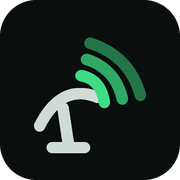
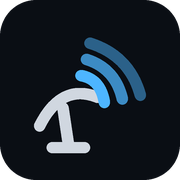
feat: New visuals

Changed region(s): [[0.4167, 0.1944, 0.8333, 0.6111]]

diff --git a/frontend/src/App.css b/frontend/src/App.css
@@ -1,17 +1,25 @@
 :root {
-  /* Signal palette: dark, slightly green-tinted graphite (not pure black)
-     with a single true signal-green as the "alive" color. Red and amber
-     are reserved strictly for down / expiring states, never decoration,
-     so their appearance always means something. */
-  --bg: #0a0f0d;
-  --bg-alt: #0e1512;
+  /* Signal palette: dark, slightly blue-tinted graphite (not pure black)
+     with a single bright signal-blue as the "alive" color. The greys and
+     the background carry the same blue bias on purpose - a neutral grey
+     sitting next to a saturated accent reads as dirty, so the whole
+     neutral ramp is tinted toward the accent rather than left flat.
+
+     Red, amber and orange are reserved strictly for expiring / overdue /
+     down states, never decoration, so their appearance always means
+     something. That's also why the accent doubles as the "good" color:
+     blue for healthy, then amber -> orange -> red as things get worse,
+     which stays legible as a single escalating scale and keeps warm
+     colors meaning exactly one thing. */
+  --bg: #0a0e14;
+  --bg-alt: #0d131c;
   --panel: rgba(255, 255, 255, 0.03);
   --panel-border: rgba(255, 255, 255, 0.08);
-  --ink: #e7f2ec;
-  --ink-dim: #7d938c;
-  --ink-faint: #4d5f59;
-  --signal: #3ddc84;
-  --signal-dim: rgba(61, 220, 132, 0.15);
+  --ink: #e7eef7;
+  --ink-dim: #7d8a99;
+  --ink-faint: #4d5a6b;
+  --signal: #4db5ff;
+  --signal-dim: rgba(77, 181, 255, 0.15);
   --alert: #ff5d5d;
   --alert-dim: rgba(255, 93, 93, 0.15);
   --amber: #ffb84d;
@@ -604,13 +612,13 @@ a {
 
 @keyframes sl-pulse-dot {
   0% {
-    box-shadow: 0 0 0 0 rgba(61, 220, 132, 0.45);
+    box-shadow: 0 0 0 0 rgba(77, 181, 255, 0.45);
   }
   70% {
-    box-shadow: 0 0 0 8px rgba(61, 220, 132, 0);
+    box-shadow: 0 0 0 8px rgba(77, 181, 255, 0);
   }
   100% {
-    box-shadow: 0 0 0 0 rgba(61, 220, 132, 0);
+    box-shadow: 0 0 0 0 rgba(77, 181, 255, 0);
   }
 }
 
@@ -870,7 +878,7 @@ a {
 
 .sl-btn:hover {
   transform: translateY(-1px);
-  box-shadow: 0 8px 20px -8px rgba(61, 220, 132, 0.5);
+  box-shadow: 0 8px 20px -8px rgba(77, 181, 255, 0.5);
 }
 
 .sl-btn:disabled {
@@ -1479,7 +1487,7 @@ a {
   align-items: center;
   justify-content: center;
   overflow: hidden;
-  background: radial-gradient(ellipse at center, #10201a 0%, #0a0f0d 65%);
+  background: radial-gradient(ellipse at center, #0f1a2b 0%, #0a0e14 65%);
   transition: opacity 0.4s ease;
 }
 .sl-logout-transition--hidden {
@@ -1677,7 +1685,7 @@ a {
    more jarring than the tiles are. */
 .leaflet-popup-content-wrapper,
 .leaflet-popup-tip {
-  background: #10201a;
+  background: #0f1a2b;
   color: var(--ink);
   border: 1px solid var(--panel-border);
   box-shadow: 0 8px 28px rgba(0, 0, 0, 0.5);

diff --git a/frontend/index.html b/frontend/index.html
@@ -6,7 +6,7 @@
       name="viewport"
       content="width=device-width, initial-scale=1, maximum-scale=1, user-scalable=no, viewport-fit=cover"
     />
-    <meta name="theme-color" content="#0a0f0d" />
+    <meta name="theme-color" content="#0a0e14" />
     <meta name="apple-mobile-web-app-capable" content="yes" />
     <meta name="apple-mobile-web-app-status-bar-style" content="black-translucent" />
     <title>Starlink Monitor</title>
@@ -38,7 +38,7 @@
         align-items: center;
         justify-content: center;
         overflow: hidden;
-        background: radial-gradient(ellipse at center, #10201a 0%, #0a0f0d 65%);
+        background: radial-gradient(ellipse at center, #0f1a2b 0%, #0a0e14 65%);
         transition: opacity 0.4s ease;
       }
       #sl-splash.sl-splash-hidden {
@@ -51,7 +51,7 @@
         width: 240px;
         height: 240px;
         border-radius: 50%;
-        background: radial-gradient(circle, rgba(61, 220, 132, 0.36), transparent 70%);
+        background: radial-gradient(circle, rgba(77, 181, 255, 0.36), transparent 70%);
         filter: blur(2px);
         opacity: 0;
         animation: sl-glow-bloom 1.7s cubic-bezier(0.2, 0.7, 0.3, 1) forwards;
@@ -68,7 +68,7 @@
 
       .sl-splash-dish {
         fill: none;
-        stroke: #e7f2ec;
+        stroke: #e7eef7;
         stroke-width: 6;
         stroke-linecap: round;
         stroke-linejoin: round;
@@ -83,7 +83,7 @@
          stub of the arc drawn before the animation starts. */
       .sl-splash-arc {
         fill: none;
-        stroke: #3ddc84;
+        stroke: #4db5ff;
         stroke-width: 6;
         stroke-linecap: round;
         stroke-dasharray: 60;
@@ -112,10 +112,10 @@
       @keyframes sl-arc-glow {
         0%,
         100% {
-          filter: drop-shadow(0 0 3px rgba(61, 220, 132, 0.5));
+          filter: drop-shadow(0 0 3px rgba(77, 181, 255, 0.5));
         }
         50% {
-          filter: drop-shadow(0 0 12px rgba(61, 220, 132, 0.95));
+          filter: drop-shadow(0 0 12px rgba(77, 181, 255, 0.95));
         }
       }
       @keyframes sl-glow-bloom {
@@ -164,7 +164,7 @@
         .sl-splash-arc {
           stroke-dashoffset: 0;
           animation: none !important;
-          filter: drop-shadow(0 0 5px rgba(61, 220, 132, 0.7));
+          filter: drop-shadow(0 0 5px rgba(77, 181, 255, 0.7));
         }
       }
     </style>

diff --git a/frontend/public/offline.html b/frontend/public/offline.html
@@ -3,7 +3,7 @@
   <head>
     <meta charset="UTF-8" />
     <meta name="viewport" content="width=device-width, initial-scale=1, maximum-scale=1, user-scalable=no" />
-    <meta name="theme-color" content="#0a0f0d" />
+    <meta name="theme-color" content="#0a0e14" />
     <title>Starlink Monitor - Offline</title>
     <style>
       * {
@@ -18,8 +18,8 @@
         display: flex;
         align-items: center;
         justify-content: center;
-        background: radial-gradient(ellipse at top, #0e1512, #0a0f0d 60%);
-        color: #e7f2ec;
+        background: radial-gradient(ellipse at top, #0d131c, #0a0e14 60%);
+        color: #e7eef7;
         font-family:
           -apple-system, BlinkMacSystemFont, "Inter", "Segoe UI", Roboto, sans-serif;
         -webkit-font-smoothing: antialiased;
@@ -36,7 +36,7 @@
       }
       .icon path {
         fill: none;
-        stroke: #3ddc84;
+        stroke: #4db5ff;
         stroke-width: 7;
         stroke-linecap: round;
         stroke-linejoin: round;
@@ -50,14 +50,14 @@
       p {
         font-size: 14px;
         line-height: 1.55;
-        color: #7d938c;
+        color: #7d8a99;
         margin: 0 0 26px;
       }
       button {
         appearance: none;
         border: none;
-        background: #3ddc84;
-        color: #0a0f0d;
+        background: #4db5ff;
+        color: #0a0e14;
         font-family: inherit;
         font-size: 15px;
         font-weight: 700;
@@ -71,7 +71,7 @@
       .status {
         margin-top: 16px;
         font-size: 12px;
-        color: #4d5f59;
+        color: #4d5a6b;
         font-family: "IBM Plex Mono", monospace;
       }
     </style>

diff --git a/backend/src/lib/mailer.js b/backend/src/lib/mailer.js
@@ -41,7 +41,7 @@ export async function sendAlertEmail({ to, subject, text, actionUrl, actionLabel
     payload.htmlContent = `<div style="font-family:Helvetica,Arial,sans-serif;font-size:15px;line-height:1.5;color:#1a1f1c;max-width:480px">
       <p>${escapeHtml(text)}</p>
       <p style="margin:24px 0;text-align:center">
-        <a href="${escapeHtml(actionUrl)}" style="display:inline-block;background:#3ddc84;color:#0a0f0d;font-weight:600;text-decoration:none;padding:10px 20px;border-radius:6px">${escapeHtml(actionLabel || "Open Starlink Monitor")}</a>
+        <a href="${escapeHtml(actionUrl)}" style="display:inline-block;background:#4db5ff;color:#0a0e14;font-weight:600;text-decoration:none;padding:10px 20px;border-radius:6px">${escapeHtml(actionLabel || "Open Starlink Monitor")}</a>
       </p>
       <p style="color:#8b96a3;font-size:12.5px">If the button doesn't work, copy this link: ${escapeHtml(actionUrl)}</p>
     </div>`;

diff --git a/frontend/src/components/BrandMark.jsx b/frontend/src/components/BrandMark.jsx
@@ -4,14 +4,14 @@
 export default function BrandMark({ className = "sl-brand__mark" }) {
   return (
     <svg className={className} viewBox="0 0 100 100" aria-hidden="true">
-      <rect width="100" height="100" rx="20" fill="#0a0f0d" />
+      <rect width="100" height="100" rx="20" fill="#0a0e14" />
       <g fill="none" strokeLinecap="round" strokeLinejoin="round" strokeWidth="6">
-        <g stroke="#e7f2ec" opacity="0.9">
+        <g stroke="#e7eef7" opacity="0.9">
           <path d="M22 70 Q34 46 54 54" />
           <path d="M35 60 L38 80" />
           <path d="M29 82 H47" />
         </g>
-        <g stroke="#3ddc84">
+        <g stroke="#4db5ff">
           <path d="M58 57 Q56 44 45 42" />
           <path d="M68 55 Q64 38 48 33" opacity="0.75" />
           <path d="M78 53 Q72 31 50 24" opacity="0.5" />

diff --git a/frontend/src/components/InstallPrompt.jsx b/frontend/src/components/InstallPrompt.jsx
@@ -57,8 +57,8 @@ export default function InstallPrompt() {
   return (
     <div className="sl-install-banner sl-panel">
       <svg className="sl-install-banner__icon" viewBox="0 0 100 100" xmlns="http://www.w3.org/2000/svg">
-        <rect width="100" height="100" rx="20" fill="#0a0f0d" />
-        <path d="M8 50 H32 L40 28 L54 72 L64 50 H92" fill="none" stroke="#3ddc84" strokeWidth="7" strokeLinecap="round" strokeLinejoin="round" />
+        <rect width="100" height="100" rx="20" fill="#0a0e14" />
+        <path d="M8 50 H32 L40 28 L54 72 L64 50 H92" fill="none" stroke="#4db5ff" strokeWidth="7" strokeLinecap="round" strokeLinejoin="round" />
       </svg>
       <div className="sl-install-banner__text">
         <div className="sl-install-banner__title">Install Starlink Monitor</div>

diff --git a/frontend/src/components/VerifyEmail.jsx b/frontend/src/components/VerifyEmail.jsx
@@ -46,8 +46,8 @@ export default function VerifyEmail({ token }) {
       <div className="sl-panel sl-auth__card">
         <div className="sl-auth__brand">
           <svg width="24" height="24" viewBox="0 0 100 100">
-            <rect width="100" height="100" rx="20" fill="#0a0f0d" />
-            <path d="M8 50 H32 L40 28 L54 72 L64 50 H92" fill="none" stroke="#3ddc84" strokeWidth="7" strokeLinecap="round" strokeLinejoin="round" />
+            <rect width="100" height="100" rx="20" fill="#0a0e14" />
+            <path d="M8 50 H32 L40 28 L54 72 L64 50 H92" fill="none" stroke="#4db5ff" strokeWidth="7" strokeLinecap="round" strokeLinejoin="round" />
           </svg>
           Starlink Monitor
         </div>

diff --git a/frontend/src/components/OrganizationsPanel.jsx b/frontend/src/components/OrganizationsPanel.jsx
@@ -333,7 +333,7 @@ function OrgDetail({ orgId, myRole, onChanged, toast }) {
             </div>
             <div className="sl-field" style={{ marginBottom: 0 }}>
               <label>Accent color</label>
-              <input value={brandAccentColor} onChange={(e) => setBrandAccentColor(e.target.value)} placeholder="#3ddc84" />
+              <input value={brandAccentColor} onChange={(e) => setBrandAccentColor(e.target.value)} placeholder="#4db5ff" />
             </div>
             <div className="sl-field" style={{ marginBottom: 0 }}>
               <label>Logo</label>

diff --git a/frontend/src/components/FleetMap.jsx b/frontend/src/components/FleetMap.jsx
@@ -36,7 +36,7 @@ function pinColor(kit, colorBy) {
 function resolveColor(value) {
   const match = /^var\((--[\w-]+)\)$/.exec(value);
   if (!match) return value;
-  return getComputedStyle(document.documentElement).getPropertyValue(match[1]).trim() || "#7d938c";
+  return getComputedStyle(document.documentElement).getPropertyValue(match[1]).trim() || "#7d8a99";
 }
 
 export function FleetMap({ kits, colorBy = "billing", onSelect, height = 420 }) {
